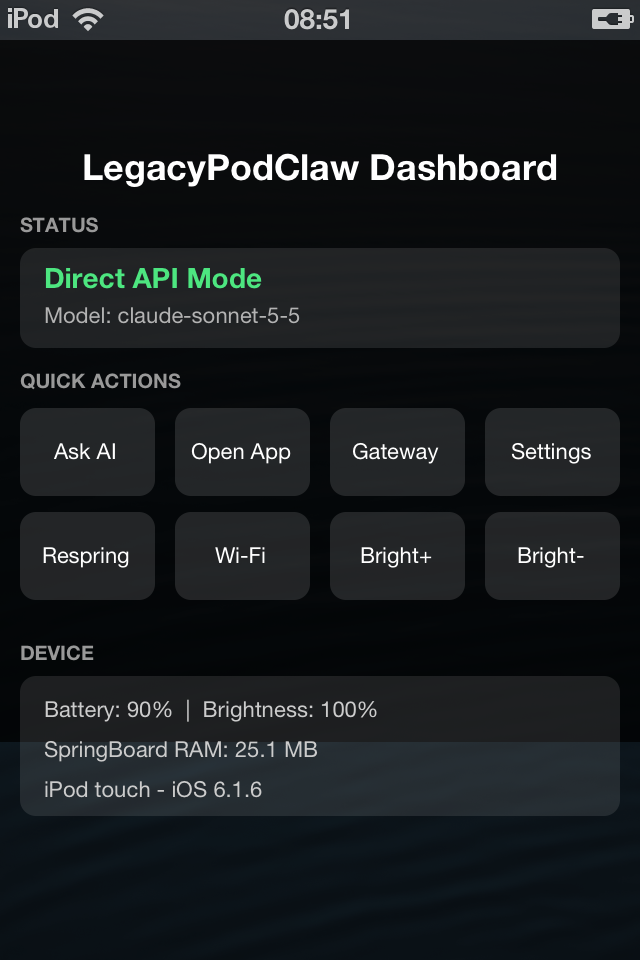
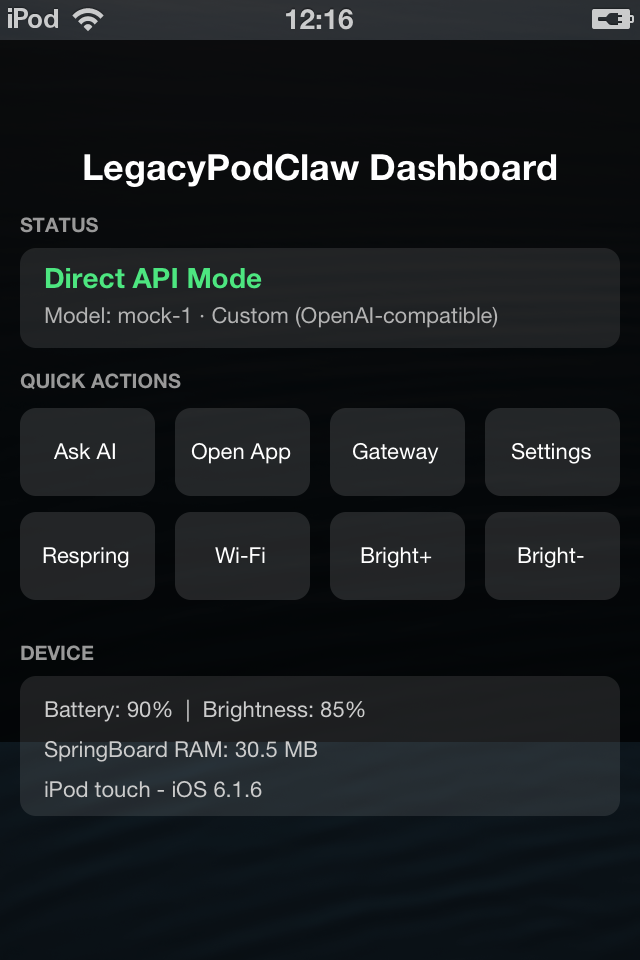
docs: describe the springboard provider and retake four shots

diff --git a/README.md b/README.md
@@ -60,7 +60,7 @@ The overlay never opens while the device is locked. The overlay and the widget h
 - The Anthropic Messages API. The default model is `claude-sonnet-5-5`. The suggested models are `claude-opus-5-5`, `claude-sonnet-5-5`, `claude-haiku-5-5` and `claude-fable-5-1`.
 - OpenAI-compatible chat completions. OpenAI, Google Gemini (through its OpenAI-compatible endpoint), Groq, Together AI, OpenRouter, Mistral, DeepSeek, Ollama and a custom endpoint use it.
 
-Each provider keeps its own API key in the keychain. HTTPS goes through wolfSSL. Plain HTTP is allowed for a local server such as Ollama. There is no automatic failover between providers. The home-button overlay and the Notification Center widget always use Anthropic. The widget needs the SpringBoard tweak, because it sends HTTPS through the tweak's wolfSSL client.
+Each provider keeps its own API key in the keychain. HTTPS goes through wolfSSL. Plain HTTP is allowed for a local server such as Ollama. There is no automatic failover between providers. The home-button overlay and the Notification Center widget use the same provider as the app. The widget needs the SpringBoard tweak, because it sends HTTPS through the tweak's wolfSSL client.
 
 **Tools.** The app has tools for the shell, files, the web, Notes, Reminders (EventKit) and Messages. It also has system controls (brightness, volume, Wi-Fi, app launch, lock), YouTube music, device information and a persistent memory. Every tool call goes through one dispatcher. The dispatcher checks the input, applies the path guardrails, enforces a timeout and asks you before a risky tool runs. The approval alert has **Allow** and **Deny** buttons. Up to two MCP servers can add more tools.
 

diff --git a/docs/site/content/changelog.md b/docs/site/content/changelog.md
@@ -14,6 +14,7 @@ Version 0.4.0 is a full rewrite of the app's network, secret, tool and package c
 - `CPFetch` sends a one-shot request. It refuses each scheme other than `http` and `https`. Before, `http_fetch` could read `file://` URLs.
 - A long-lived wolfSSL connection carries the Discord and Slack WebSockets and IRC over TLS.
 - The Notification Center widget sends HTTPS through the tweak's wolfSSL client.
+- wolfSSL seeds its random number generator from `/dev/urandom`, and it accepts 4096-bit RSA roots.
 
 ### clawpodd and secrets
 
@@ -37,6 +38,7 @@ Version 0.4.0 is a full rewrite of the app's network, secret, tool and package c
 
 ### SpringBoard tweak
 
+- The overlay, the Notification Center widget and the dashboard use the provider and model that you set in the app.
 - The overlay does not open on the lock screen, and it hides when the device locks.
 - With a passcode set, the lock screen camera keeps Apple's behaviour.
 - The Notification Center widget does not run while the device is locked with a passcode.

diff --git a/docs/site/content/getting-started/configuration.md b/docs/site/content/getting-started/configuration.md
@@ -26,7 +26,7 @@ When you change the provider, the app clears the model ID.
 For Anthropic only, you can also use the Settings app: **Settings > LegacyPodClaw > Local Agent**. Enter the key in **Anthropic Key**. The **Provider** list there also selects the provider, but the key and base URL for other providers are only in the app.
 
 {{< alert type="note" title="Overlay and widget" >}}
-The home-button overlay and the Notification Center widget always use Anthropic and the Anthropic key. They use the **Model** setting only when the provider is Anthropic. Otherwise they use `claude-sonnet-5-5`.
+The home-button overlay, the Notification Center widget and the dashboard use the provider, the model and the key that you set in the app.
 {{< /alert >}}
 
 See [AI Providers](/guide/providers/) for the list of providers.

diff --git a/docs/site/content/guide/troubleshooting.md b/docs/site/content/guide/troubleshooting.md
@@ -36,9 +36,9 @@ The app shows **Not Saved** when `clawpodd` does not store a value.
 2. Check that `clawpodd` runs: `launchctl list | grep legacypodclaw`.
 3. If it does not run, load it: `launchctl load /Library/LaunchDaemons/pro.matthesketh.legacypodclaw.daemon.plist`.
 
-## The overlay says "No API key set"
+## The overlay or the widget says "Not Configured"
 
-The overlay and the Notification Center widget use only the Anthropic key. Enter it in **Settings > LegacyPodClaw > Local Agent > Anthropic Key**, or select Anthropic in the app and enter the key there.
+The overlay and the Notification Center widget use the provider that you set in the app. That provider needs a base URL and, if it asks for one, an API key. Open the app, tap the gear button and set them.
 
 ## High memory use
 

diff --git a/docs/site/content/getting-started/first-run.md b/docs/site/content/getting-started/first-run.md
@@ -29,7 +29,7 @@ The overlay is a quick text chat.
 2. Type a question and tap **Send**. The reply streams into the overlay.
 3. To close the overlay, press the home button or tap the close button.
 
-The overlay has no tools. It always uses Anthropic. It keeps the last 10 messages and saves them in the app's **Quick Ask** session. It does not open while the device is locked.
+The overlay has no tools. It uses the provider and model that you set in the app. It keeps the last 10 messages and saves them in the app's **Quick Ask** session. It does not open while the device is locked.
 
 ## The app
 

diff --git a/docs/site/content/guide/providers.md b/docs/site/content/guide/providers.md
@@ -11,7 +11,7 @@ LegacyPodClaw has two provider adapters. Both stream the reply and support tool 
 
 Select one provider in the app: tap the gear button, then **Model Provider > Provider**. The in-app chat, the chat channels and the gateway server use this provider. There is no automatic failover to a different provider.
 
-The home-button overlay and the Notification Center widget always use the Anthropic provider.
+The home-button overlay and the Notification Center widget use the same provider and model as the app. They send text only, with no tools.
 
 ## Provider list
 

diff --git a/docs/site/content/guide/gestures.md b/docs/site/content/guide/gestures.md
@@ -6,7 +6,7 @@ weight: 1
 
 The LegacyPodClaw tweak is a MobileSubstrate tweak. Its filter loads it only into SpringBoard (`com.apple.springboard`). It does not load into other apps.
 
-The overlay and the Notification Center widget use Anthropic only. See [Configuration](/getting-started/configuration/).
+The overlay and the Notification Center widget use the provider and model that you set in the app. See [Configuration](/getting-started/configuration/).
 
 ## Home-button hold
 
